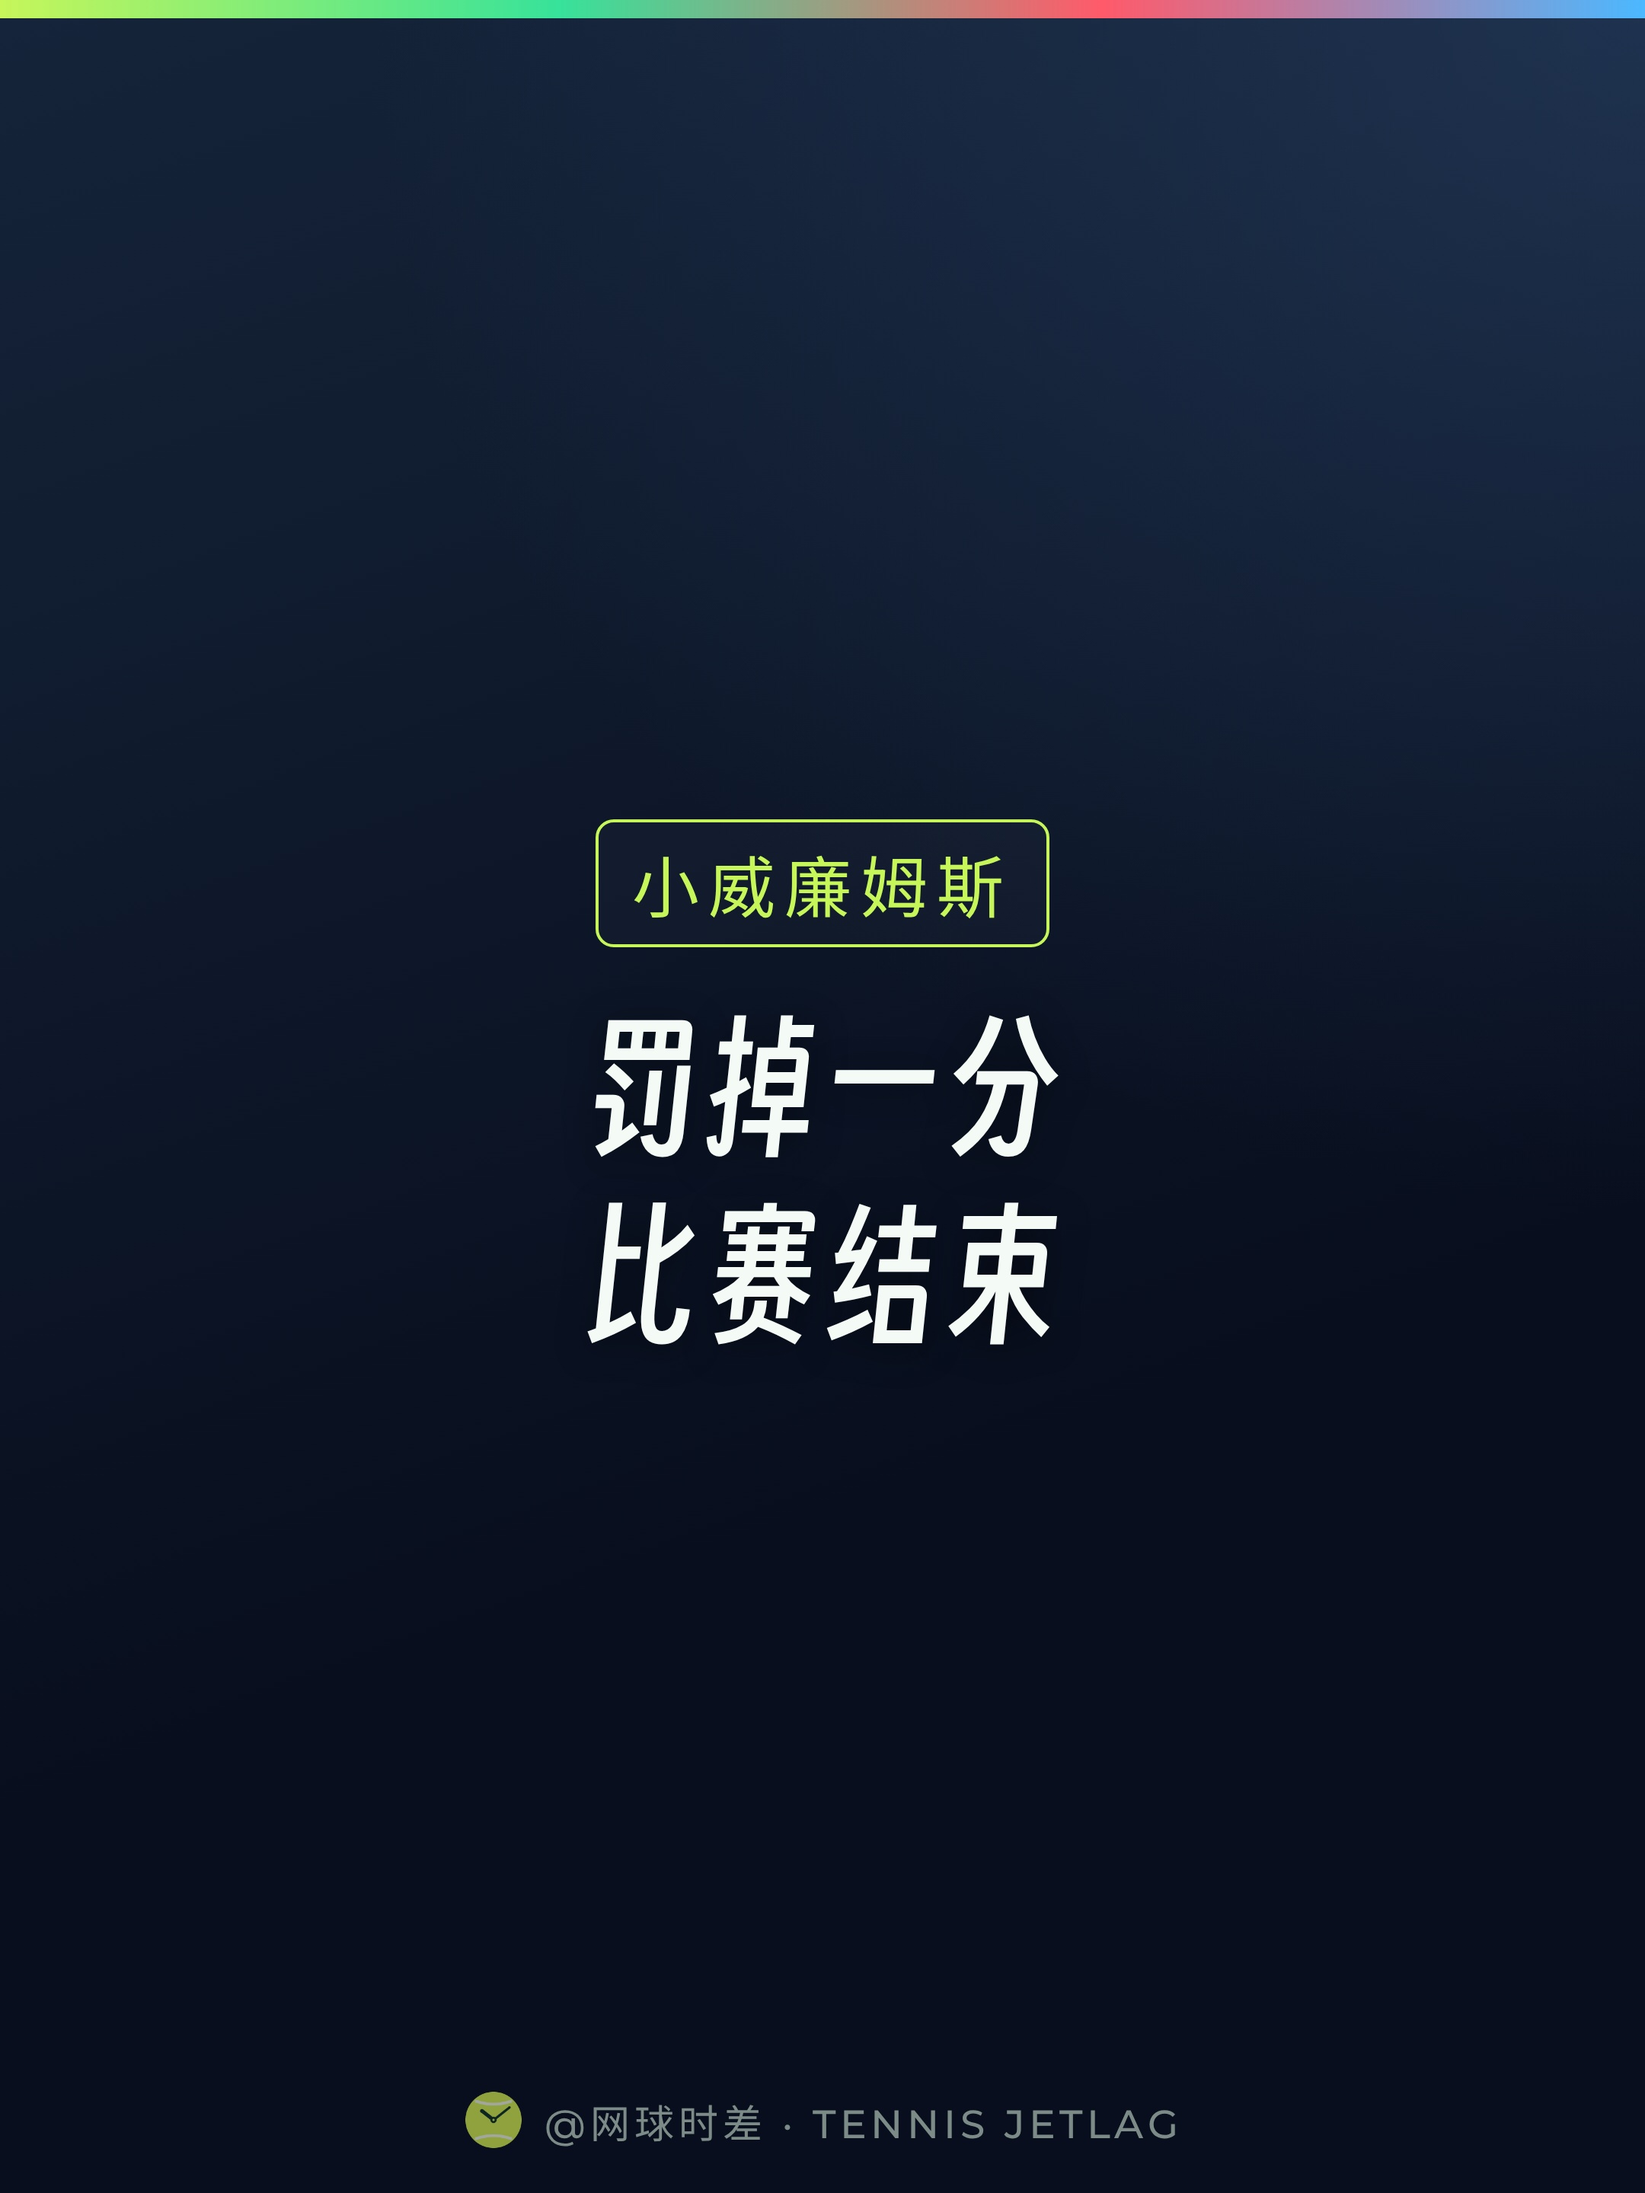
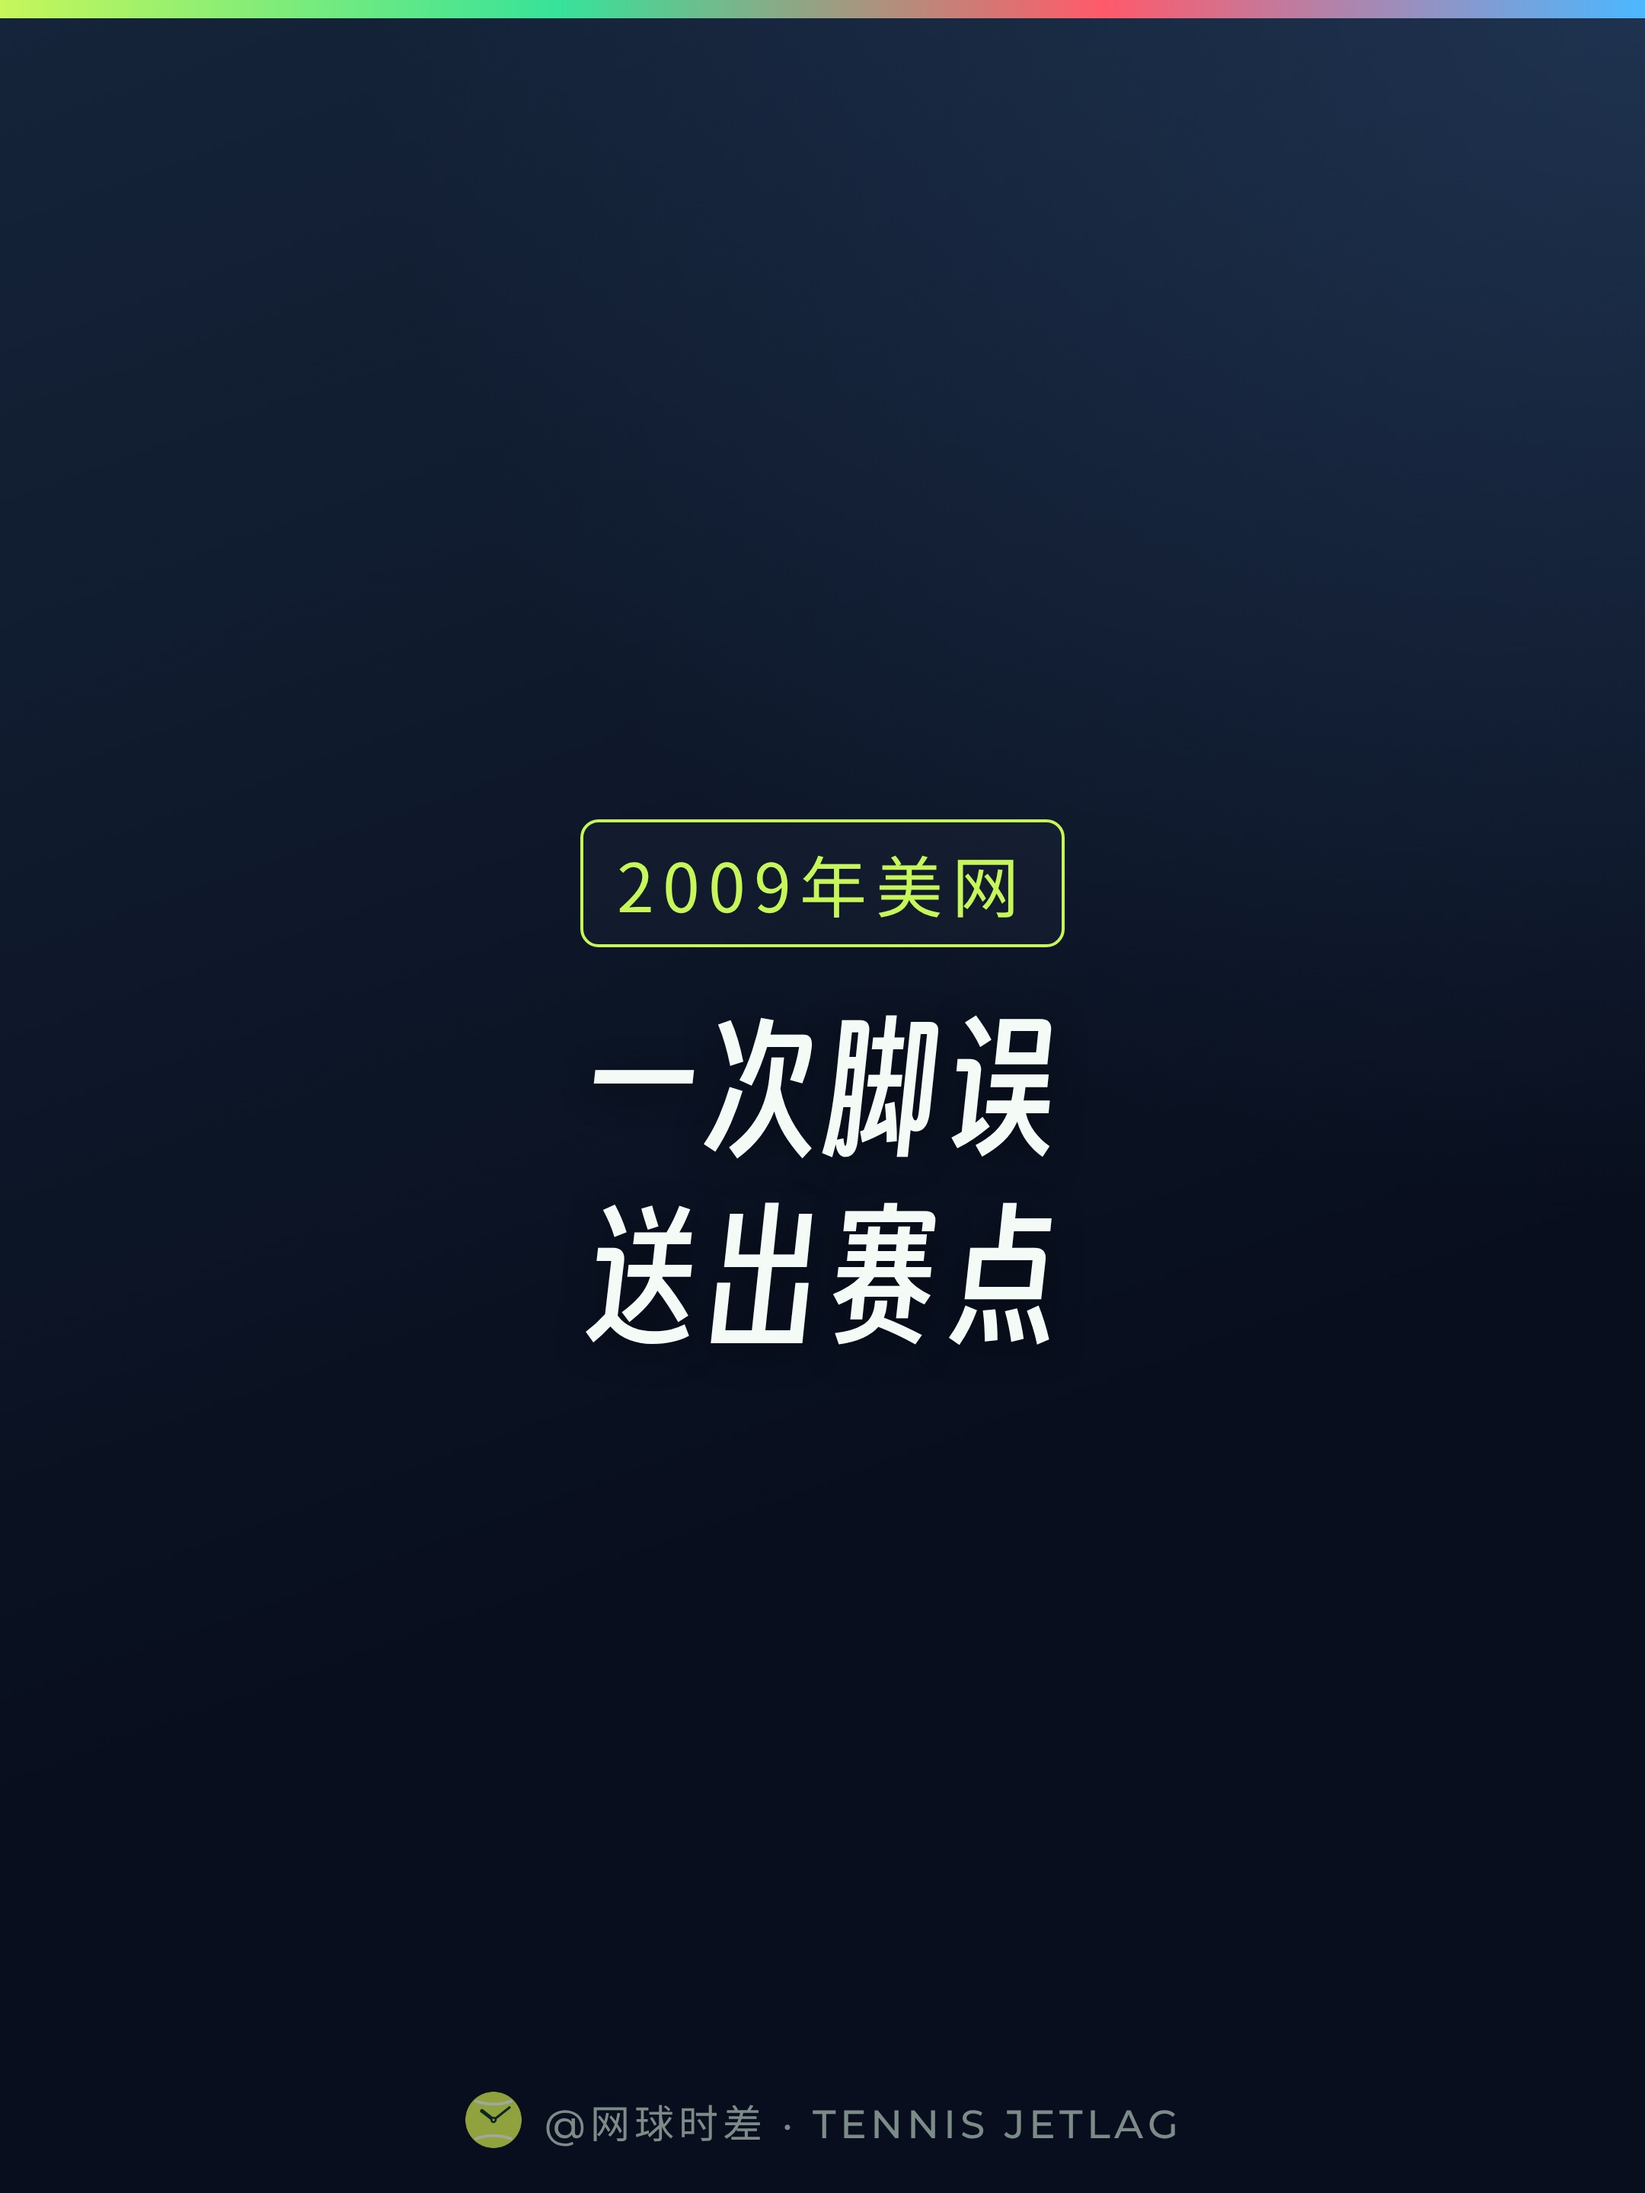
reel: render fault-not-out-2026

Changed region(s): [[0.3412, 0.375, 0.6514, 0.625]]

diff --git a/output/2026-10-15/reel/fault-not-out-2026/copy.html b/output/2026-10-15/reel/fault-not-out-2026/copy.html
@@ -252,7 +252,7 @@ textarea { display: block; width: 100%; resize: vertical; border: 1px solid var(
 
 为什么不喊Out？发球的目标不是整片场地，是斜对面那一个发球区。球落在发球线后面、底线前面，还在场地里，喊Out说不通。所以回合里的球出界喊Out，发球没落进发球区喊Fault。2025年温网，比赛场上不再有司线员，电子司线里预录的人声照样分三句：Out、Fault、Foot fault。
 
-球没出界，也能是Fault。国际网联规则写着：脚误、挥拍没碰到球、球先砸到网柱，甚至砸到自己的搭档，都算发球失误。2018年温网，克耶高斯被身后的司线判了脚误；2021年年终总决赛抢七，梅德韦杰夫二发被判脚误，主裁看完回放维持原判，他赛后说：要在二发上判，就上电子系统；今年中网，布勃利克被判踩到中点的延长线，他说打了30年球，头一回听说这种脚误。女子巡回赛的规则书还写着：脚误要是在击球之前就喊，这一发判Let，再发一次。
+球没出界，也能是Fault。国际网联规则写着：脚误、挥拍没碰到球、球先砸到网柱，甚至砸到自己的搭档，都算发球失误。2018年温网，克耶高斯被身后的司线判了脚误；2021年年终总决赛抢七，梅德韦杰夫二发被判脚误，主裁看完回放维持原判，他赛后说：要在二发上判，就上电子系统；今年中网，布勃利克被判踩到中点的延长线，他说打了30年球，头一回听说这种脚误。脚误怎么算：发球动作里走动或跑动、踩到底线、踩到边线或中点的假想延长线，都算；双脚离地跳起来发，不算。女子巡回赛的规则书还写着：脚误要是在击球之前就喊，这一发判Let，再发一次。
 
 两次Fault就是双误，直接丢一分。2018年澳网，卢布列夫在第三盘5比4的关头双误，摔了球拍。最出名的一次在2009年美网半决赛：小威廉姆斯5比6、15比30，二发被判脚误变成双误，她对着司线怒吼被罚一分，这一分正好是赛点，比赛就这样结束。也有人双误31次照样赢球：1999年澳网的库尔尼科娃。
 
